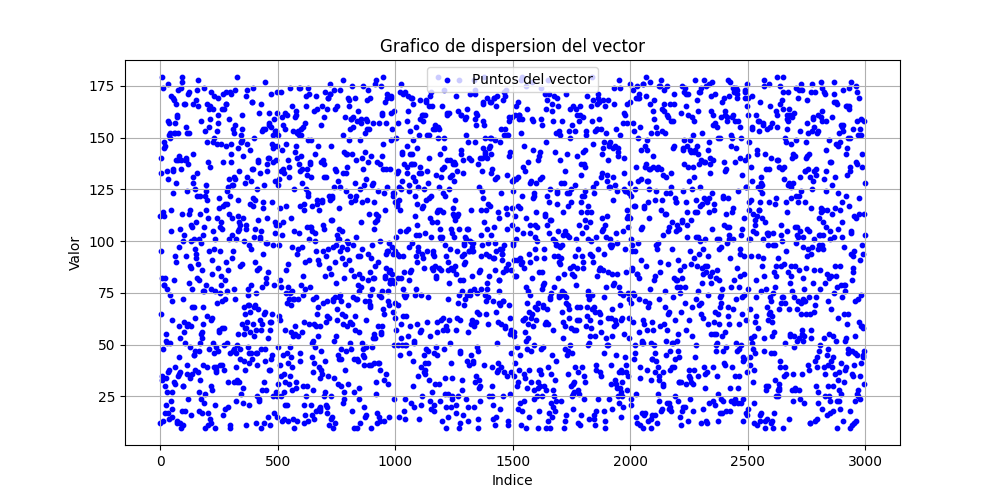
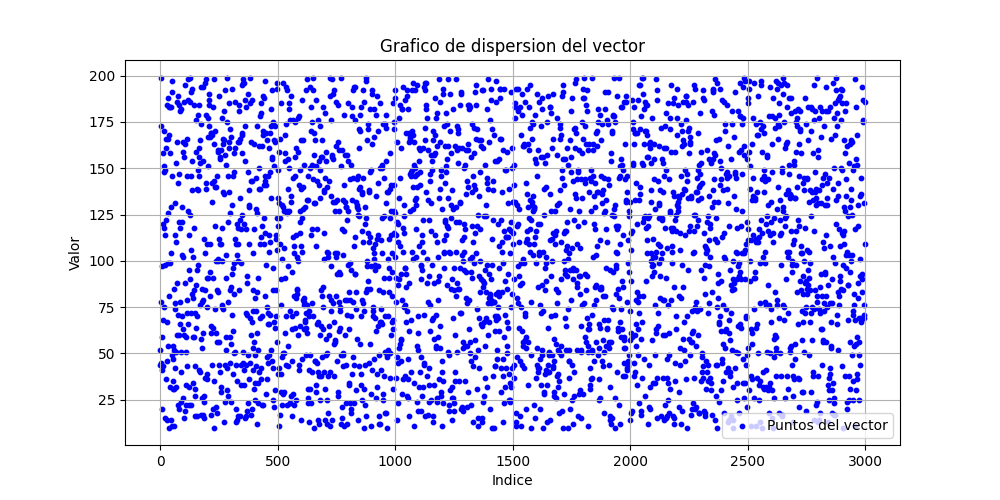
ahora cuando detengo el programa con el boton o con ctrl c, el posicinador vuelve a la posicion inicial. Cuando presionamos ctrl c por motivo desconocido ejecutaba el penúltimo posición en vez de la última, por lo que aumentamos ell valor de i solo cuando presionamos ctrl c. Hay otro cambio, pedimos

diff --git a/Bobinadora.py b/Bobinadora.py
@@ -85,7 +85,20 @@ def generate_steps_matrix(positions):
 # Add event detector for the button
 GPIO.add_event_detect(button_pin, GPIO.FALLING, callback=stop_loop, bouncetime=300)  # Debounce time = 300ms
 
-positions = np.load("vector_guardado.npy")
+
+modo = input("Quieres bobinar en modo Produccion (p) o Test (t)? ").strip().lower()
+
+if modo == "t":
+    print("Modo Test seleccionado")
+    positions = np.load("Test.npy")
+elif modo == "p":
+    print("Modo Produccion seleccionado")
+    positions = np.load("vector_guardado.npy")
+else:
+    print("Opcion no valida. Cerrando programa...")
+    sys.exit(1)
+
+
 movements = generate_steps_matrix(positions)
 
 
@@ -126,19 +139,23 @@ try:
         # Esperar a que ambos motores terminen
         thread_stepper.join()
         thread_posicionador.join()
-
+        lp = i
+        print(f"N. de posicion: {i}, a vel: {speed / steps_per_revolution:.1f} v/s")
         i += 1
-        print(f"N. de vueltas: {i}, a vel: {speed / steps_per_revolution:.1f} v/s")
-
 
 
 except KeyboardInterrupt:
     print('Programa detenido por el usuario')
+    i += 1
     running = False  #Ensure the loop stops
 
 finally:
     GPIO.remove_event_detect(button_pin)  # Detener la deteccion de eventos
+    running = False
     stepper.motor_stop()
+    movements = generate_steps_matrix([positions[i-1]]) #la funcion tiene un current position = 0 por default. me llegara i+1
+    mover_posicionador(movements[0][0], not(movements[0][1]), 200)
+    print(f"i={i-1} , {positions[i-1]}")    
     posicionador.motor_stop()
     GPIO.cleanup()
     lcd.clear()

diff --git a/Vector.py b/Vector.py
@@ -1,14 +1,18 @@
 import numpy as np
 
+min = 10
+max = 200
+size = 3000
+
 # Generamos el vector de 2000 posiciones aleatorias entre 0 y 400 (inclusive)
-vector = np.random.randint(10, 180, size=3000)
+vector = np.random.randint(min, max, size=size)
 
 # Guardar el vector como texto (por si queres verlo o usarlo desde fuera de Python)
 with open("datos.txt", "w") as archivo:
     archivo.write(','.join(map(str, vector)))  # convertimos a texto separado por comas
 
 # Otra lista cualquiera
-Test = [400, 300, 400, 300, 400, 300, 0]
+Test = [min, min, max, max, min, max, min, max]
 
 # Guardar en formato binario de NumPy (mas rapido y eficiente)
 np.save("vector_guardado.npy", vector)

diff --git a/grafico.py b/grafico.py
@@ -22,3 +22,6 @@ plt.legend()
 # Guardar el graficoo como imagen PNG
 plt.savefig("grafico_vector_disperso.png")
 print("Grafico guardado como grafico_vector_disperso.png")
+
+#Luego tengo que abrir una terminal en local y copiar el archivo, poniendo esto:
+#scp Javo@192.168.1.128:/home/Javo/Documents/venvstepperm/Bobinadora/grafico_vector_disperso.png /home/javier/ProyectosManuales/
